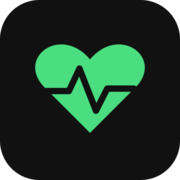
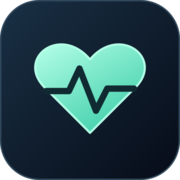
Restore the heart branding.

diff --git a/css/healthspace.css b/css/healthspace.css
@@ -1,6 +1,6 @@
 @font-face {
     font-family: "Space Grotesk";
-    src: url("/?asset=css/space-grotesk.ttf&v=4") format("truetype");
+    src: url("/?asset=css/space-grotesk.ttf&v=5") format("truetype");
     font-style: normal;
     font-weight: 300 700;
     font-display: swap;
@@ -98,31 +98,11 @@ header.top h1 a,
 }
 .brand-mark {
     display: inline-block;
-    position: relative;
-    width: 32px;
-    height: 32px;
-    flex: 0 0 32px;
-    border: 1.5px solid var(--accent);
-    border-radius: 50%;
-    transform: rotate(-25deg);
-}
-.brand-mark::before {
-    content: "";
-    position: absolute;
-    inset: 8px -6px;
-    border: 1px solid var(--accent);
-    border-radius: 50%;
-}
-.brand-mark::after {
-    content: "";
-    position: absolute;
-    top: 0;
-    right: 2px;
-    width: 7px;
-    height: 7px;
-    border-radius: 50%;
-    background: var(--accent);
-    box-shadow: 0 0 16px var(--accent);
+    width: 36px;
+    height: 36px;
+    flex: 0 0 36px;
+    background: url("/?asset=pwa/icon.svg&v=5") center / contain no-repeat;
+    filter: drop-shadow(0 0 12px rgba(128, 244, 212, 0.18));
 }
 header.top nav {
     display: flex;

diff --git a/pwa/sw.js b/pwa/sw.js
@@ -1,18 +1,18 @@
-let cacheName = 'healthspace-static-v4';
-let offlineUrl = '/?asset=pwa/offline.html&v=4';
+let cacheName = 'healthspace-static-v5';
+let offlineUrl = '/?asset=pwa/offline.html&v=5';
 let staticUrls = [
     offlineUrl,
-    '/?asset=css/healthspace.css&v=4',
-    '/?asset=css/space-grotesk.ttf&v=4',
-    '/?asset=js/charts.js&v=4',
-    '/?asset=js/nutrition.js&v=4',
-    '/?asset=js/pwa.js&v=4',
-    '/?asset=js/chart.min.js&v=4',
-    '/?asset=pwa/manifest.json&v=4',
-    '/?asset=pwa/icon.svg',
-    '/?asset=pwa/icon-192.png',
-    '/?asset=pwa/icon-512.png',
-    '/?asset=pwa/apple-touch-icon.png'
+    '/?asset=css/healthspace.css&v=5',
+    '/?asset=css/space-grotesk.ttf&v=5',
+    '/?asset=js/charts.js&v=5',
+    '/?asset=js/nutrition.js&v=5',
+    '/?asset=js/pwa.js&v=5',
+    '/?asset=js/chart.min.js&v=5',
+    '/?asset=pwa/manifest.json&v=5',
+    '/?asset=pwa/icon.svg&v=5',
+    '/?asset=pwa/icon-192.png&v=5',
+    '/?asset=pwa/icon-512.png&v=5',
+    '/?asset=pwa/apple-touch-icon.png&v=5'
 ];
 
 self.addEventListener('install', event => {

diff --git a/pwa/offline.html b/pwa/offline.html
@@ -5,7 +5,7 @@
         <meta name="viewport" content="width=device-width, initial-scale=1,viewport-fit=cover" />
         <meta name="theme-color" content="#070c18" />
         <title>Offline · healthspace</title>
-        <link rel="stylesheet" href="/?asset=css/healthspace.css&v=4" />
+        <link rel="stylesheet" href="/?asset=css/healthspace.css&v=5" />
     </head>
     <body class="login-page">
         <main class="login-form">

diff --git a/src/Healthspace.php b/src/Healthspace.php
@@ -116,7 +116,7 @@ final class Healthspace
             <meta name="viewport" content="width=device-width, initial-scale=1,viewport-fit=cover">
             <title>{$title} · healthspace</title>
             {$pwa}
-            <link rel="stylesheet" href="/?asset=css/healthspace.css&v=4">
+            <link rel="stylesheet" href="/?asset=css/healthspace.css&v=5">
         </head>
         <body>
             <main>
@@ -134,8 +134,8 @@ final class Healthspace
                 {$content}
                 {$upload}
             </main>
-            <script src="/?asset=js/nutrition.js&v=4" defer></script>
-            <script src="/?asset=js/charts.js&v=4"></script>
+            <script src="/?asset=js/nutrition.js&v=5" defer></script>
+            <script src="/?asset=js/charts.js&v=5"></script>
         </body>
         </html>
         HTML;
@@ -689,7 +689,7 @@ final class Healthspace
             <meta name="viewport" content="width=device-width, initial-scale=1,viewport-fit=cover">
             <title>healthspace — Login</title>
             {$pwa}
-            <link rel="stylesheet" href="/?asset=css/healthspace.css&v=4">
+            <link rel="stylesheet" href="/?asset=css/healthspace.css&v=5">
         </head>
         <body class="login-page">
             <form class="login-form" method="post" action="/">
@@ -708,17 +708,17 @@ final class Healthspace
      */
     private function pwaHeadTags(): string
     {
-        return '<link rel="manifest" href="/?asset=pwa/manifest.json&v=4">' .
+        return '<link rel="manifest" href="/?asset=pwa/manifest.json&v=5">' .
             '<meta name="theme-color" content="#070c18">' .
-            '<link rel="preload" href="/?asset=css/space-grotesk.ttf&v=4" as="font" type="font/ttf" crossorigin>' .
-            '<link rel="icon" type="image/svg+xml" href="/?asset=pwa/icon.svg">' .
-            '<link rel="icon" type="image/png" sizes="192x192" href="/?asset=pwa/icon-192.png">' .
-            '<link rel="apple-touch-icon" href="/?asset=pwa/apple-touch-icon.png">' .
+            '<link rel="preload" href="/?asset=css/space-grotesk.ttf&v=5" as="font" type="font/ttf" crossorigin>' .
+            '<link rel="icon" type="image/svg+xml" href="/?asset=pwa/icon.svg&v=5">' .
+            '<link rel="icon" type="image/png" sizes="192x192" href="/?asset=pwa/icon-192.png&v=5">' .
+            '<link rel="apple-touch-icon" href="/?asset=pwa/apple-touch-icon.png&v=5">' .
             '<meta name="apple-mobile-web-app-capable" content="yes">' .
             '<meta name="mobile-web-app-capable" content="yes">' .
             '<meta name="apple-mobile-web-app-status-bar-style" content="black-translucent">' .
             '<meta name="apple-mobile-web-app-title" content="Healthspace">' .
-            '<script src="/?asset=js/pwa.js&v=4" defer></script>';
+            '<script src="/?asset=js/pwa.js&v=5" defer></script>';
     }
 
     /**
@@ -1533,7 +1533,7 @@ final class Healthspace
                 $measurementChartHtml .
                 $measurementFormHtml .
                 $measurementTableHtml .
-                '</section><script src="/?asset=js/chart.min.js&v=4"></script>' .
+                '</section><script src="/?asset=js/chart.min.js&v=5"></script>' .
                 '<script type="application/json" data-chart-config="' .
                 $payload .
                 '"></script>';
@@ -1565,7 +1565,7 @@ final class Healthspace
                 '</p>' .
                 $measurementTableHtml .
                 $measurementFormHtml .
-                '</section><script src="/?asset=js/chart.min.js&v=4"></script>' .
+                '</section><script src="/?asset=js/chart.min.js&v=5"></script>' .
                 '<script type="application/json" data-chart-config="' .
                 $payload .
                 '"></script>';
@@ -2009,7 +2009,7 @@ final class Healthspace
             $measurementChartHtml .
             $measurementTableHtml .
             $measurementFormHtml .
-            '</section><script src="/?asset=js/chart.min.js&v=4"></script>' .
+            '</section><script src="/?asset=js/chart.min.js&v=5"></script>' .
             '<script type="application/json" data-chart-config="' .
             $payload .
             '"></script>';

diff --git a/src/Nutrition.php b/src/Nutrition.php
@@ -375,7 +375,7 @@ final readonly class Nutrition
             <div class="health__canvas"><canvas id="healthIntake" role="img" aria-label="Täglich erfasste Kalorien der letzten 30 Tage"></canvas></div>
         </section>
         <section class="health-entry"><h2 class="health-entry__title">Mahlzeiten</h2>{$entries}</section>
-        <script src="/?asset=js/chart.min.js&v=4"></script>
+        <script src="/?asset=js/chart.min.js&v=5"></script>
         <script type="application/json" data-chart-config="{$payload}"></script>
         HTML;
     }
